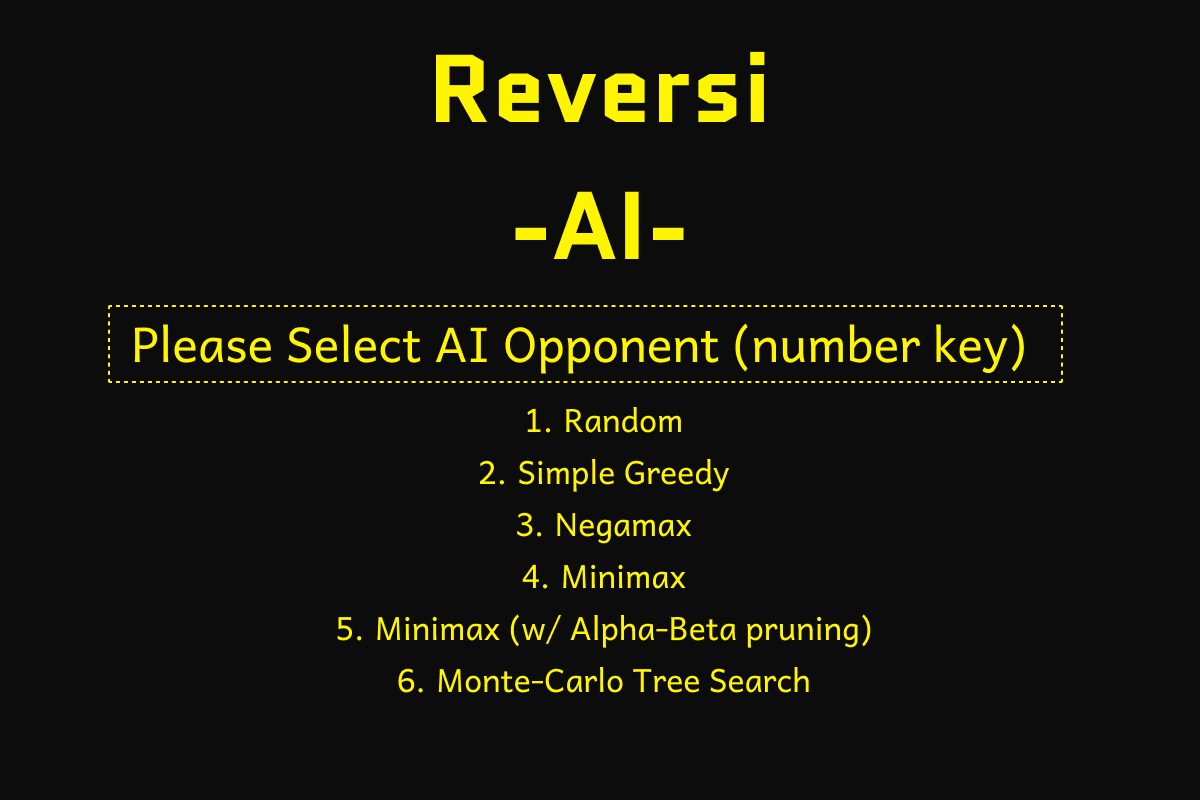
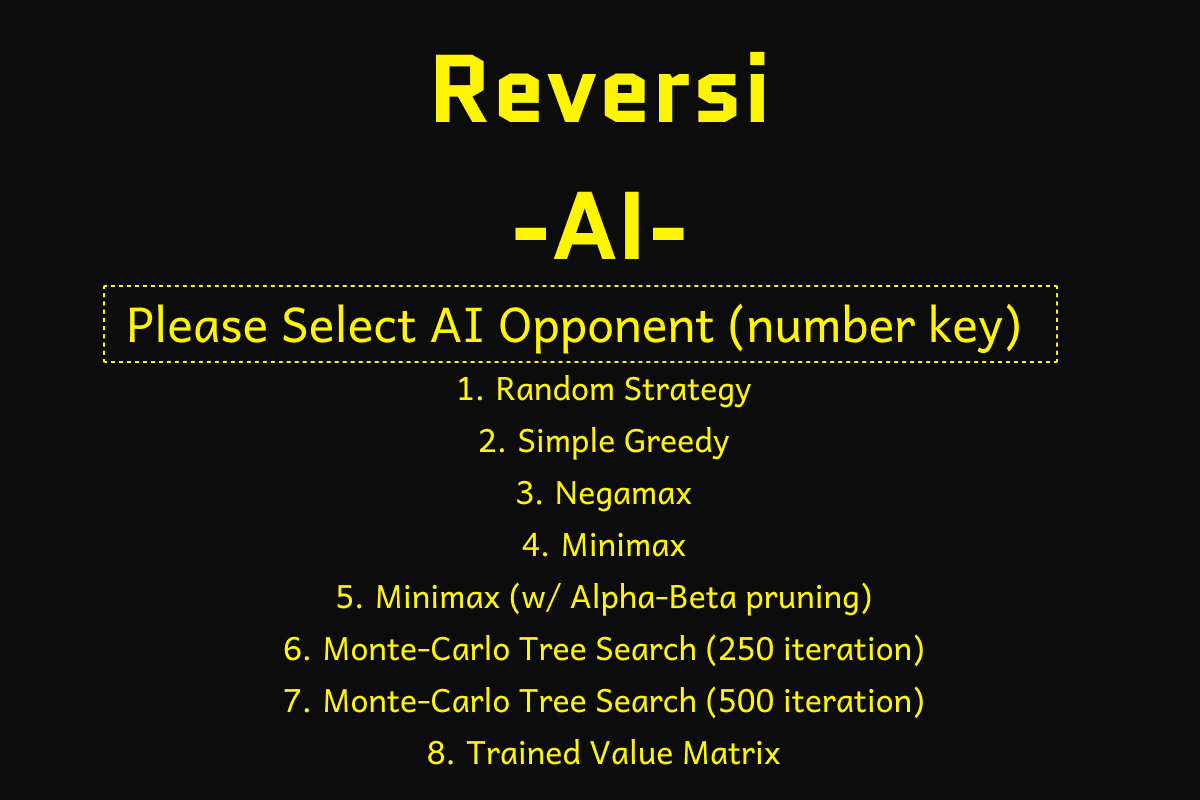
Refresh images, delete old code, update data gatherers

Changed region(s): [[0.0925, 0.375, 0.8633, 0.9688], [0.3392, 0.9375, 0.37, 0.9688]]

diff --git a/src/data_gatherer(multi-process).py b/src/data_gatherer(multi-process).py
@@ -1,0 +1,80 @@
+from multiprocessing import Pool
+from utils.board import Board
+from AI_Players.MCTS_AI import Node, monte_carlo_tree_search, mcts_move
+from AI_Players.minimax_AI import minimax_move
+from AI_Players.greedy_AI import greedy_move
+from AI_Players.negamax_AI import negamax_move
+from AI_Players.random_AI import random_move
+from AI_Players.value_matrix_AI import value_matrix_move
+import csv
+
+# Initialise a list to store the results
+results = []
+
+# Initialise counters
+black_wins = 0
+white_wins = 0
+draws = 0
+
+TOTAL_GAMES = 100
+BATCH_SIZE = 8
+
+def play_game(game_number):
+    try: 
+        print(f'Start Game: {game_number+1}')
+        
+        board = Board()
+        
+        player = Board.BLACK  # Black starts 
+        
+        while not board.is_game_over():
+        
+            if player == Board.BLACK:  # Negamax's turn
+                row, col = negamax_move(board, Board.BLACK)
+                if row is not None and col is not None:
+                    board.make_move(row, col, Board.BLACK)
+
+            else:  # Random's turn
+                row, col = random_move(board, Board.WHITE)
+                if row is not None and col is not None:
+                    board.make_move(row, col, Board.WHITE)
+            
+            # Switch players
+            player = Board.BLACK if player == Board.WHITE else Board.WHITE  
+        
+        print(f'Game {game_number+1} finish')
+        return board.get_winner()
+    
+    except Exception as e:
+        print(f'Error in game {game_number}: {e}')
+        return None
+
+if __name__ == "__main__":
+    with Pool() as p:
+        for i in range(0, TOTAL_GAMES, BATCH_SIZE):
+            batch_number = i // BATCH_SIZE + 1
+            print(f'///////////Starting batch {batch_number} of {TOTAL_GAMES // BATCH_SIZE}')
+
+            batch_results = []
+            jobs = [p.apply_async(play_game, (j,)) for j in range(i, i + BATCH_SIZE)]
+            for job in jobs:
+                try:
+                    result = job.get(timeout=60)
+                    batch_results.append(result)
+                except TimeoutError:
+                    print(f'Timeout in game {job}')
+                    continue
+
+            results.extend(batch_results)
+
+            print(f'///////////Finished batch {batch_number} of {TOTAL_GAMES // BATCH_SIZE}\n')
+
+    black_wins = results.count('Black')
+    white_wins = results.count('White')
+    draws = results.count('Draw')
+
+    # Write the results to a file...
+    with open('results(Negamax-vs-Random).csv', 'w', newline='') as file:
+        writer = csv.writer(file)
+        writer.writerow(["Negamax Wins", "Random Wins", "Draws"])
+        writer.writerow([black_wins, white_wins, draws])

diff --git a/src/data_gatherer(single-process).py b/src/data_gatherer(single-process).py
@@ -1,6 +1,6 @@
 from utils.board import Board
 from AI_Players.MCTS_AI import Node, monte_carlo_tree_search, mcts_move
-from AI_Players.minimax_AI import minimax_move
+from AI_Players.minimax_AI import minimax_move, minimax_simple_move
 from AI_Players.greedy_AI import greedy_move
 from AI_Players.negamax_AI import negamax_move
 from AI_Players.random_AI import random_move
@@ -24,26 +24,27 @@ for _ in range(100):  # Play until game end
     while not board.is_game_over():
     
         if player == Board.BLACK:  # Negamax's turn
-            row, col = negamax_move(board, Board.BLACK)
+            row, col = minimax_simple_move(board, Board.BLACK)
             if row is not None and col is not None:
                 board.make_move(row, col, Board.BLACK)
-            #else:
-                #print("Negamax player has no legal moves. Skipping turn.")
+            else:
+                print("Negamax player has no legal moves. Skipping turn.")
 
         else:  # Random's turn
             row, col = random_move(board, Board.WHITE)
             if row is not None and col is not None:
                 board.make_move(row, col, Board.WHITE)
-            #else:
-                #print("Random player has no legal moves. Skipping turn.")
+            else:
+                print("Random player has no legal moves. Skipping turn.")
 
-        #board.print_board()
+        board.print_board()
         #print(board.all_legal_moves(Board.BLACK))
         #print(board.all_legal_moves(Board.WHITE))
         player = Board.BLACK if player == Board.WHITE else Board.WHITE  # Switch players
     
-   # Record the result
+    # Record the result
     winner = board.get_winner()
+    
     if winner == 'Black':
         black_wins += 1
     elif winner == 'White':
@@ -52,7 +53,7 @@ for _ in range(100):  # Play until game end
         draws += 1
 
 # Write the results to a file
-with open('results(Negamax-vs-Random).csv', 'w', newline='') as file:
+with open('results(Simple Minimax-vs-Random).csv', 'w', newline='') as file:
     writer = csv.writer(file)
-    writer.writerow(["Negamax Wins", "Random Wins", "Draws"])
+    writer.writerow(["Minimax (simple) Wins", "Random Wins", "Draws"])
     writer.writerow([black_wins, white_wins, draws])

diff --git a/src/utils/game.py b/src/utils/game.py
@@ -344,6 +344,9 @@ class Game:
         # press b to play AI vs AI
         self.computer_vs_computer = (event.key == pygame.K_b)
         
+        # h to play a friend
+        self.player_vs_player = (event.key == pygame.K_h)
+        
         self.game_mode_chosen = True
 
         dummy_surface = pygame.Surface( (Game.WINDOW_WIDTH, 
@@ -351,7 +354,9 @@ class Game:
         dummy_surface.fill(self.background)
         Game.fade(self.screen, (dummy_surface, (0, 0)))
 
-        #self.displayInitialBoardPos()
+        # pvp can jump straight in
+        if self.player_vs_player:
+            self.displayInitialBoardPos()
     
     def choose_opponent(self, event) -> None:
         ''' Handles the choice of AI opponent for Player Vs AI mode '''
@@ -415,7 +420,7 @@ class Game:
             if not self.game_mode_chosen:
                 self.screen.blit(self.menuIMG, (0,0))
                 continue
-            elif not self.opponent_chosen:
+            elif not self.opponent_chosen and self.is_single_player:
                 self.screen.blit(self.choose_opponentIMG, (0,0))
                 continue
 

diff --git a/src/AI_Players/random_AI.py b/src/AI_Players/random_AI.py
@@ -1,33 +1,6 @@
 from utils.board import Board
 import random
 
-def random_move_older(position: Board) -> tuple[int, int]:
-
-    legal_moves = position.all_legal_moves(Board.WHITE)
-
-    random_move = random.choice(legal_moves)
-
-    return random_move
-
-def random_move_old(position: Board, player_colour: int) -> tuple[int, int]:
-
-    # random player is white
-    if player_colour == -1:
-
-        legal_moves = position.all_legal_moves(Board.WHITE)
-
-    # random player is black
-    elif player_colour == 1:
-
-        legal_moves = position.all_legal_moves(Board.BLACK)
-
-    else: raise Exception("Random type player must be white or black")
-    
-
-    random_move = random.choice(list(legal_moves))
-
-    return random_move
-
 def random_move(position: Board, player_colour: int) -> tuple[int, int]:
     
     # check if game over
